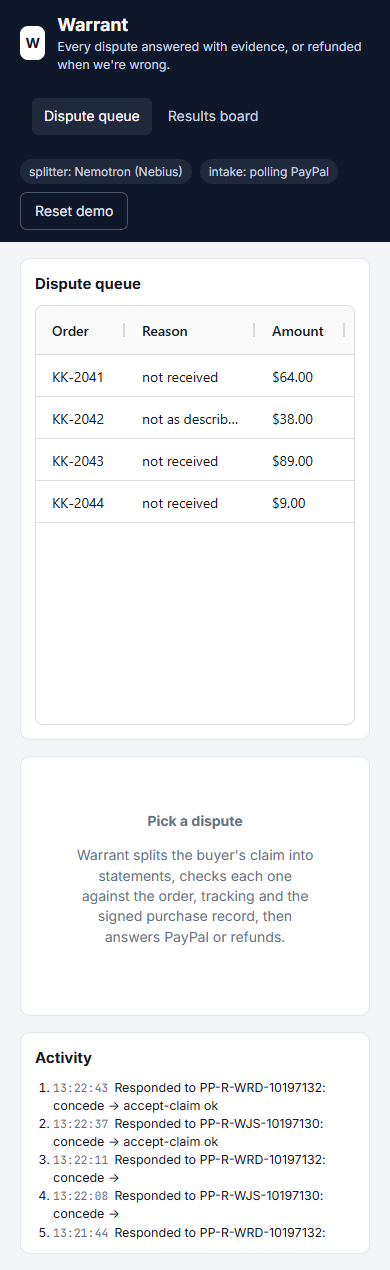
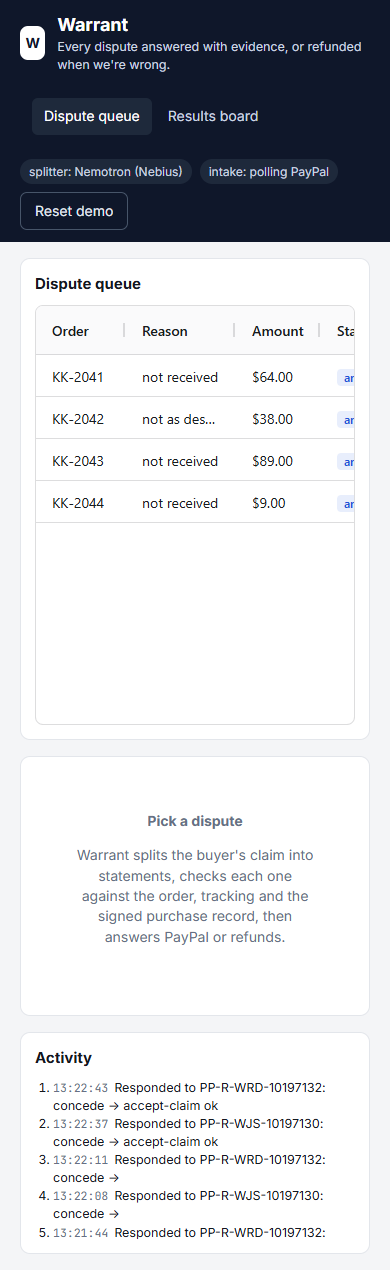
Queue grid fits its panel; screenshots retaken

Changed region(s): [[0.6462, 0.2457, 0.8308, 0.3992], [0.5231, 0.3071, 0.5846, 0.3378], [0.8615, 0.2457, 0.8923, 0.2764]]

diff --git a/static/app.js b/static/app.js
@@ -24,12 +24,10 @@ function initQueue() {
   queueApi = agGrid.createGrid($("#queueGrid"), {
     columnDefs: [
       { field: "order", headerName: "Order", width: 90 },
-      { field: "reason", headerName: "Reason", flex: 1, minWidth: 130 },
-      { field: "amount", headerName: "Amount", width: 90, valueFormatter: (p) => money(p.value) },
-      { field: "stage", headerName: "Stage", width: 120, cellRenderer: (p) => `<span class="chip ${p.value}">${p.value.replaceAll("_", " ")}</span>` },
-      { field: "decision", headerName: "Warrant", width: 95, cellRenderer: (p) => (p.value ? `<span class="chip ${p.value}">${p.value}</span>` : "") },
-      { field: "dispute_id", headerName: "PayPal dispute", width: 165 },
-      { field: "paypal_status", headerName: "PayPal status", width: 130 },
+      { field: "reason", headerName: "Reason", flex: 1, minWidth: 110 },
+      { field: "amount", headerName: "Amount", width: 85, valueFormatter: (p) => money(p.value) },
+      { field: "stage", headerName: "Stage", width: 110, cellRenderer: (p) => `<span class="chip ${p.value}">${p.value.replaceAll("_", " ")}</span>` },
+      { field: "decision", headerName: "Warrant", width: 90, cellRenderer: (p) => (p.value ? `<span class="chip ${p.value}">${p.value}</span>` : "") },
     ],
     rowData: [],
     rowSelection: "single",
